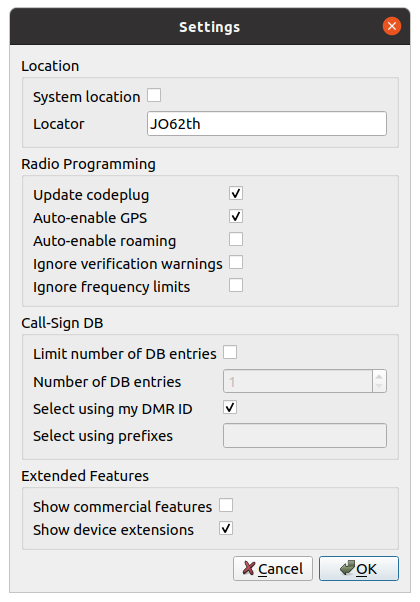
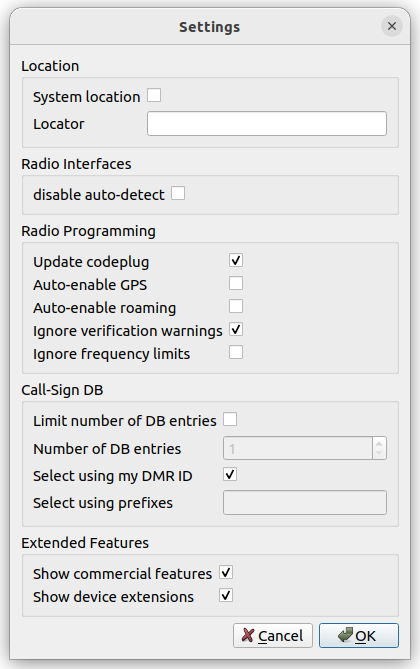
Implemented manual device interface & model selection #435. (#436)
* Enabled interface and device selection for DR-1801UV (considered unsafe and unidentifiable). Added settings option to disable auto-detection at all. Addresses #435, #420.
* Associate DR-1801UV with all USB ACM-CDC devices.
* Fixed auto-detection for command line tool. 
* Updated manual.

Changed region(s): [[0.0, 0.0, 1.0, 1.0], [0.8667, 0.6279, 0.9286, 0.6877]]

diff --git a/lib/usbdevice.cc b/lib/usbdevice.cc
@@ -43,15 +43,14 @@ USBDeviceInfo::USBDeviceInfo()
   // pass...
 }
 
-USBDeviceInfo::USBDeviceInfo(Class cls, uint16_t vid, uint16_t pid, bool save, bool identifiable)
-  : _class(cls), _vid(vid), _pid(pid), _save(save), _identifiable(identifiable)
+USBDeviceInfo::USBDeviceInfo(Class cls, uint16_t vid, uint16_t pid, bool save)
+  : _class(cls), _vid(vid), _pid(pid), _save(save)
 {
   // pass...
 }
 
 USBDeviceInfo::USBDeviceInfo(const USBDeviceInfo &other)
-  : _class(other._class), _vid(other._vid), _pid(other._pid), _save(other._save),
-    _identifiable(other._identifiable)
+  : _class(other._class), _vid(other._vid), _pid(other._pid), _save(other._save)
 {
   // pass...
 }
@@ -62,13 +61,15 @@ USBDeviceInfo::operator =(const USBDeviceInfo &other) {
   _vid = other._vid;
   _pid = other._pid;
   _save = other._save;
-  _identifiable = other._identifiable;
   return *this;
 }
 
 bool
 USBDeviceInfo::operator ==(const USBDeviceInfo &other) const {
-  return (other._class == _class) && (other._vid == _vid) && (other._pid == _pid);
+  // Class must match, VID/PID only need to match, if both are != 0.
+  return (other._class == _class) &&
+      ((! other.hasVendorID()) || (! hasVendorID()) || (other._vid == _vid))
+      && ((! other.hasProductID()) || (! hasProductID()) || (other._pid == _pid));
 }
 bool
 USBDeviceInfo::operator !=(const USBDeviceInfo &other) const {
@@ -89,9 +90,18 @@ USBDeviceInfo::interfaceClass() const {
   return _class;
 }
 
+bool
+USBDeviceInfo::hasVendorID() const {
+  return 0 != vendorId();
+}
 uint16_t
 USBDeviceInfo::vendorId() const {
   return _vid;
+}
+
+bool
+USBDeviceInfo::hasProductID() const {
+  return 0 != productId();
 }
 uint16_t
 USBDeviceInfo::productId() const {
@@ -101,11 +111,6 @@ USBDeviceInfo::productId() const {
 bool
 USBDeviceInfo::isSave() const {
   return _save;
-}
-
-bool
-USBDeviceInfo::isIdentifiable() const {
-  return _identifiable;
 }
 
 QString
@@ -304,14 +309,14 @@ USBDeviceDescriptor::deviceHandle() const {
 }
 
 QList<USBDeviceDescriptor>
-USBDeviceDescriptor::detect() {
+USBDeviceDescriptor::detect(bool saveOnly) {
   QList<USBDeviceDescriptor> res;
-  res.append(AnytoneInterface::detect());
-  res.append(OpenGD77Interface::detect());
-  res.append(RadioddityInterface::detect());
-  res.append(TyTInterface::detect());
-  res.append(DR1801UVInterface::detect());
-  res.append(C7000Device::detect());
+  res.append(AnytoneInterface::detect(saveOnly));
+  res.append(OpenGD77Interface::detect(saveOnly));
+  res.append(RadioddityInterface::detect(saveOnly));
+  res.append(TyTInterface::detect(saveOnly));
+  res.append(DR1801UVInterface::detect(saveOnly));
+  res.append(C7000Device::detect(saveOnly));
   return res;
 }
 

diff --git a/lib/usbserial.cc b/lib/usbserial.cc
@@ -7,8 +7,8 @@
 /* ******************************************************************************************** *
  * Implementation of USBSerial::Info
  * ******************************************************************************************** */
-USBSerial::Descriptor::Descriptor(uint16_t vid, uint16_t pid, const QString &device)
-  : USBDeviceDescriptor(USBDeviceInfo(Class::Serial, vid, pid), device)
+USBSerial::Descriptor::Descriptor(uint16_t vid, uint16_t pid, const QString &device, bool isSave)
+  : USBDeviceDescriptor(USBDeviceInfo(Class::Serial, vid, pid, isSave), device)
 {
   // pass...
 }
@@ -111,7 +111,7 @@ USBSerial::signalingChanged() {
 }
 
 QList<USBDeviceDescriptor>
-USBSerial::detect(uint16_t vid, uint16_t pid) {
+USBSerial::detect(uint16_t vid, uint16_t pid, bool isSave) {
   QList<USBDeviceDescriptor> interfaces;
   // Find matching serial port by VID/PID.
   logDebug() << "Search for serial port with matching VID:PID " <<
@@ -120,9 +120,27 @@ USBSerial::detect(uint16_t vid, uint16_t pid) {
   foreach (QSerialPortInfo port, ports) {
     if (port.hasProductIdentifier() && (pid == port.productIdentifier()) &&
         port.hasVendorIdentifier() && (vid == port.vendorIdentifier())) {
-      interfaces.append(Descriptor(vid, pid, port.portName()));
+      interfaces.append(Descriptor(vid, pid, port.portName(), isSave));
       logDebug() << "Found " << port.portName() << " (USB "
                  << QString::number(vid, 16) << ":" << QString::number(pid, 16) << ").";
+    }
+  }
+  return interfaces;
+}
+
+
+QList<USBDeviceDescriptor>
+USBSerial::detect() {
+  QList<USBDeviceDescriptor> interfaces;
+  // Find matching serial port by VID/PID.
+  logDebug() << "Search for serial ports.";
+  QList<QSerialPortInfo> ports = QSerialPortInfo::availablePorts();
+  foreach (QSerialPortInfo port, ports) {
+    if (port.hasProductIdentifier() && port.hasVendorIdentifier()) {
+      interfaces.append(Descriptor(port.vendorIdentifier(), port.productIdentifier(), port.portName(), false));
+      logDebug() << "Found " << port.portName() << " (USB "
+                 << QString::number(port.vendorIdentifier(), 16) << ":"
+                 << QString::number(port.productIdentifier(), 16) << ").";
     }
   }
   return interfaces;

diff --git a/src/settings.cc b/src/settings.cc
@@ -63,6 +63,15 @@ Settings::position() const {
 }
 
 bool
+Settings::disableAutoDetect() const {
+  return value("disableAutoDetect", false).toBool();
+}
+void
+Settings::setDisableAutoDetect(bool disable) {
+  setValue("disableAutoDetect", disable);
+}
+
+bool
 Settings::updateCodeplug() const {
   return value("updateCodeplug", true).toBool();
 }
@@ -337,12 +346,12 @@ SettingsDialog::SettingsDialog(QWidget *parent)
           this, SLOT(onIgnoreFrequencyLimitsSet(bool)));
   connect(queryLocation, SIGNAL(toggled(bool)), this, SLOT(onSystemLocationToggled(bool)));
 
+  Ui::SettingsDialog::disableAutoDetect->setChecked(settings.disableAutoDetect());
   Ui::SettingsDialog::updateCodeplug->setChecked(settings.updateCodeplug());
   Ui::SettingsDialog::autoEnableGPS->setChecked(settings.autoEnableGPS());
   Ui::SettingsDialog::autoEnableRoaming->setChecked(settings.autoEnableRoaming());
   Ui::SettingsDialog::ignoreVerificationWarnings->setChecked(settings.ignoreVerificationWarning());
   Ui::SettingsDialog::ignoreFrequencyLimits->setChecked(settings.ignoreFrequencyLimits());
-
 
   Ui::SettingsDialog::dbLimitEnable->setChecked(settings.limitCallSignDBEntries());
   if (! settings.limitCallSignDBEntries())
@@ -417,6 +426,7 @@ SettingsDialog::accept() {
   Settings settings;
   settings.setQueryPosition(queryLocation->isChecked());
   settings.setLocator(locatorEntry->text().simplified());
+  settings.setDisableAutoDetect(disableAutoDetect->isChecked());
   settings.setUpdateCodeplug(updateCodeplug->isChecked());
   settings.setAutoEnableGPS(autoEnableGPS->isChecked());
   settings.setAutoEnableRoaming(autoEnableRoaming->isChecked());

diff --git a/src/application.cc b/src/application.cc
@@ -547,16 +547,21 @@ Application::quitApplication() {
 
 Radio *
 Application::autoDetect(const ErrorStack &err) {
+  Settings settings;
   // If the last detected device is still valid
   //  -> skip interface detection and selection
-  if (! _lastDevice.isValid()) {
+  if ((! _lastDevice.isValid()) || settings.disableAutoDetect()) {
     logDebug() << "Last device is invalid, search for new one.";
     // First get all devices that are known by VID/PID
     QList<USBDeviceDescriptor> interfaces = USBDeviceDescriptor::detect();
     if (interfaces.isEmpty()) {
+      logDebug() << "No save device found, continue searching for unsave ones.";
+      interfaces = USBDeviceDescriptor::detect(false);
+    }
+    if (interfaces.isEmpty()) {
       errMsg(err) << tr("No matching devices found.");
       return nullptr;
-    } else if ((1 != interfaces.count()) || (! interfaces.first().isSave())) {
+    } else if ((1 != interfaces.count()) || (! interfaces.first().isSave()) || settings.disableAutoDetect()) {
       // More than one device found, or device not save -> select by user
       DeviceSelectionDialog dialog(interfaces);
       if (QDialog::Accepted != dialog.exec()) {
@@ -570,7 +575,7 @@ Application::autoDetect(const ErrorStack &err) {
 
   // Check if device supports identification
   RadioInfo radioInfo;
-  if (! _lastDevice.isIdentifiable()) {
+  if ((! _lastDevice.isSave()) || settings.disableAutoDetect()){
     RadioSelectionDialog dialog(_lastDevice);
     if (QDialog::Accepted != dialog.exec()) {
       return nullptr;

diff --git a/cli/autodetect.cc b/cli/autodetect.cc
@@ -40,6 +40,9 @@ autoDetect(QCommandLineParser &parser, QCoreApplication &app, const ErrorStack &
   logDebug() << "Autodetect radios.";
 
   QList<USBDeviceDescriptor> interfaces = USBDeviceDescriptor::detect();
+  if (interfaces.isEmpty())
+    interfaces = USBDeviceDescriptor::detect(false);
+
   if (interfaces.isEmpty()) {
     errMsg(err) << "No matching USB devices are found. Check connection?";
     return nullptr;
@@ -99,13 +102,13 @@ autoDetect(QCommandLineParser &parser, QCoreApplication &app, const ErrorStack &
       return nullptr;
     }
     return rad;
-  } else if (! device.isIdentifiable()) {
+  } else if (! device.isSave()) {
     // Collect all radio keys for the device
     QStringList radios;
     foreach (RadioInfo info, RadioInfo::allRadios(device)) {
       radios.append(info.key());
     }
-    errMsg(err) << "It is not possible to identify the radio connected to the device '"
+    errMsg(err) << "It is not save or possible to identify the radio connected to the device '"
                 << device.deviceHandle() << ". You have to specify which radio to use using "
                 << "the --radio option. Possible radios for this device are "
                 << radios.join(", ") << ".";

diff --git a/lib/dr1801uv_interface.cc b/lib/dr1801uv_interface.cc
@@ -295,12 +295,16 @@ DR1801UVInterface::write_finish(const ErrorStack &err) {
 
 USBDeviceInfo
 DR1801UVInterface::interfaceInfo() {
-  return USBDeviceInfo(USBDeviceInfo::Class::Serial, USB_VID, USB_PID, false, true);
+  return USBDeviceInfo(USBDeviceInfo::Class::Serial, 0, 0, false);
 }
 
 QList<USBDeviceDescriptor>
-DR1801UVInterface::detect() {
-  return USBSerial::detect(USB_VID, USB_PID);
+DR1801UVInterface::detect(bool saveOnly) {
+  // if non-save devices are allowed, search for all USB AMC-CDC devices.
+  if (! saveOnly)
+    return USBSerial::detect();
+  // otherwise, return none
+  return QList<USBDeviceDescriptor>();
 }
 
 bool

diff --git a/lib/opengd77_interface.cc b/lib/opengd77_interface.cc
@@ -183,8 +183,9 @@ OpenGD77Interface::interfaceInfo() {
 }
 
 QList<USBDeviceDescriptor>
-OpenGD77Interface::detect() {
-  return USBSerial::detect(USB_VID, USB_PID);
+OpenGD77Interface::detect(bool saveOnly) {
+  Q_UNUSED(saveOnly)
+  return USBSerial::detect(USB_VID, USB_PID, true);
 }
 
 void

diff --git a/lib/anytone_interface.cc b/lib/anytone_interface.cc
@@ -116,8 +116,9 @@ AnytoneInterface::interfaceInfo() {
 }
 
 QList<USBDeviceDescriptor>
-AnytoneInterface::detect() {
-  return USBSerial::detect(USB_VID, USB_PID);
+AnytoneInterface::detect(bool saveOnly) {
+  Q_UNUSED(saveOnly);
+  return USBSerial::detect(USB_VID, USB_PID, true);
 }
 
 

diff --git a/lib/radioddity_interface.cc b/lib/radioddity_interface.cc
@@ -39,7 +39,8 @@ RadioddityInterface::interfaceInfo() {
 }
 
 QList<USBDeviceDescriptor>
-RadioddityInterface::detect() {
+RadioddityInterface::detect(bool saveOnly) {
+  Q_UNUSED(saveOnly)
   return HIDevice::detect(USB_VID, USB_PID);
 }
 

diff --git a/lib/c7000device.cc b/lib/c7000device.cc
@@ -212,8 +212,9 @@ C7000Device::interfaceInfo() {
 
 
 QList<USBDeviceDescriptor>
-C7000Device::detect()
+C7000Device::detect(bool saveOnly)
 {
+  Q_UNUSED(saveOnly)
   QList<USBDeviceDescriptor> res;
 
   int error, num;

diff --git a/lib/tyt_interface.cc b/lib/tyt_interface.cc
@@ -68,7 +68,8 @@ TyTInterface::interfaceInfo() {
 }
 
 QList<USBDeviceDescriptor>
-TyTInterface::detect() {
+TyTInterface::detect(bool saveOnly) {
+  Q_UNUSED(saveOnly);
   return DFUDevice::detect(USB_VID, USB_PID);
 }
 
